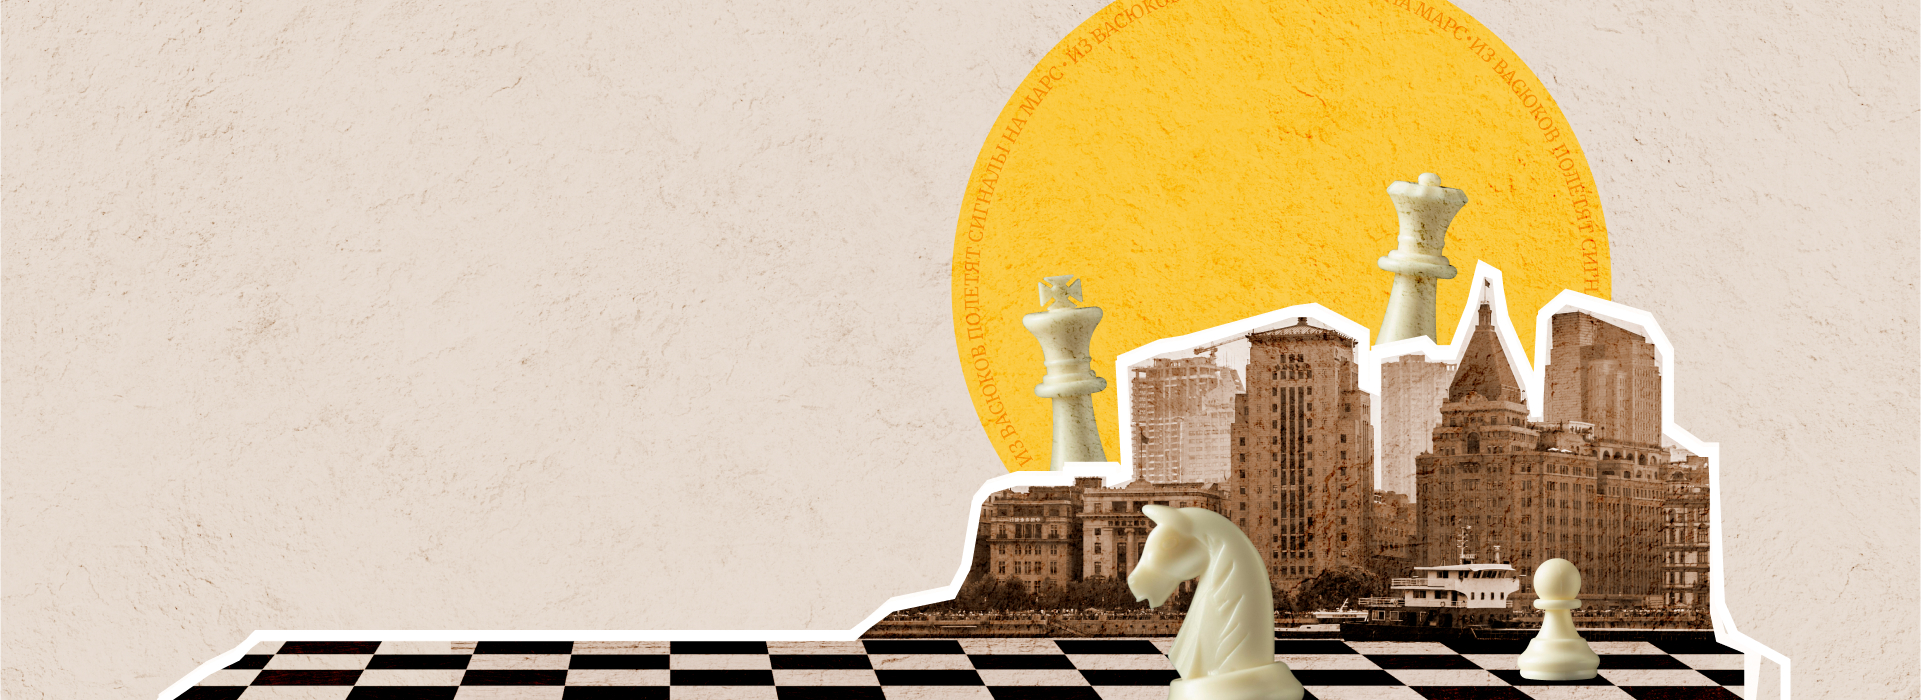
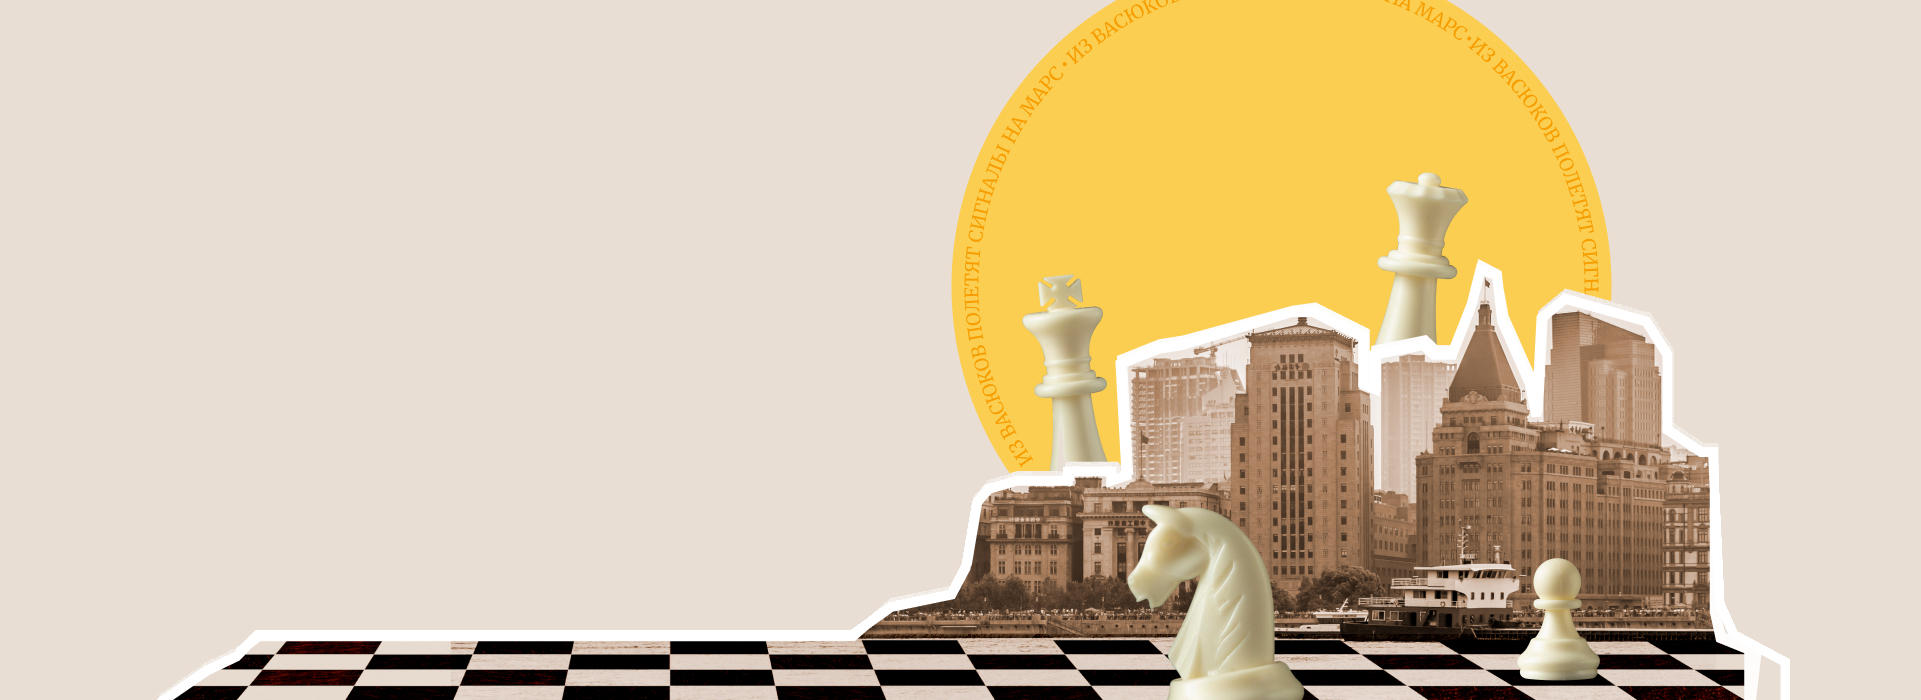
no message

diff --git a/src/css/blocks/sections.scss b/src/css/blocks/sections.scss
@@ -11,18 +11,39 @@
 }
 
 
-.content__lecture {
+.lecture_compose {
   display: inline-grid;
-  grid-template-columns: repeat(12, 1fr);
+  grid-template-columns: repeat(auto-fit, minmax(336px, auto));
   align-items: center;
+  justify-content: center;
   gap: 18px;
-
 }
-.content__lecture .content__img {
-  grid-column: span 4;
-}
-.content__lecture .content__text {
+.lecture_compose .content__text {
   margin-bottom: 0px;
   padding-right: 19px;
-  grid-column: span 8;
+  
+}
+.main__lecture {
+  margin-bottom: 64px;
+}
+.session_compose {
+  display: inline-grid;
+  grid-template-columns: repeat(auto-fit, minmax(336px, auto));
+  gap: 18px;
+}
+.session__label {
+  background-image: none;
+  
+}
+.session__header {
+  padding-top: 30px;
+  margin-bottom: 60px;
+ 
+}
+.note__session {
+  
+}
+.content__note {
+  @extend %golos-text-regular;
+  font-size: 20px;
 }

diff --git a/src/css/components/table.scss b/src/css/components/table.scss
@@ -1,0 +1,42 @@
+.table__row {
+  display: grid;
+  grid-template-columns: auto auto;
+  align-items: center;
+  justify-content: start;
+}
+.table-head {
+  justify-self: start;
+}
+.table__item {
+  
+  
+}
+.table {
+  width: 100%;
+}
+.table__session {
+  margin-bottom: 50px ;
+}
+.table__item:first-child .table__header, 
+.table__item:first-child .table__data {
+  padding-top: 0;
+}
+.table__header {
+  text-align: start;
+  vertical-align: middle;
+  @extend %golos-text-regular;
+  font-size: 20px;
+  padding: 16px 0px;
+  border-bottom: solid 2px #D0D0D0;
+  width: 46%;
+}
+.table__data {
+  text-align: start;
+  vertical-align: middle;
+  @extend %golos-text-semiBold;
+  font-size: 20px;
+  padding: 16px 0 16px 16px;
+  border-left: solid 2px #D0D0D0;
+  border-bottom: solid 2px #D0D0D0;
+  width: 54%;
+}

diff --git a/src/css/components/banner.scss b/src/css/components/banner.scss
@@ -1,10 +1,4 @@
-.banner {
-  background-image: url('./image/city.png');
-  background-repeat: no-repeat;
-  background-size: contain;
-  width: 100%;
-  height: 100%;
-}
+
 
 .king {
   bottom: 53%;
@@ -46,6 +40,31 @@
 
 }
 .banner {
-  max-width: 100%;
-  height: auto;
+  width: 1920px;
+  height: 100%;
+  transform: translateX(calc(-50%));
+  position: absolute;
+  left: 50%;
+}
+.banner__banner-container {
+  margin-right: auto;
+  margin-left: auto;
+}
+.banner_header {
+  position: absolute;
+  top: 0;
+}
+.banner__container {
+  
+  width: 100%;
+  min-width: 320px;
+  height: 700px;
+  background-color: #E9DED4;
+}
+.banner__texture {
+  background-image: url('./image/texture.png');
+  mix-blend-mode: color-burn;
+  background-size: cover;
+  width: 100%;
+  height: 100%;
 }

diff --git a/src/stylesheet.scss b/src/stylesheet.scss
@@ -8,6 +8,7 @@
   './css/components/banner.scss',
   './css/components/header_title.scss',
   './css/components/running_line.scss',
+  './css/components/table.scss',
   './css/components/fonts.scss';
   
 @import './css/blocks/header.scss', './css/blocks/footer.scss';

diff --git a/src/css/blocks/header.scss b/src/css/blocks/header.scss
@@ -19,13 +19,7 @@
   display: flex;
   flex-direction: row;
 }
-.banner__container {
-  margin-top: 270px;
-  position: absolute;
-  top: 0;
-  left: 0;
-  
-}
+
 header {
   min-height: 700px;
 }
